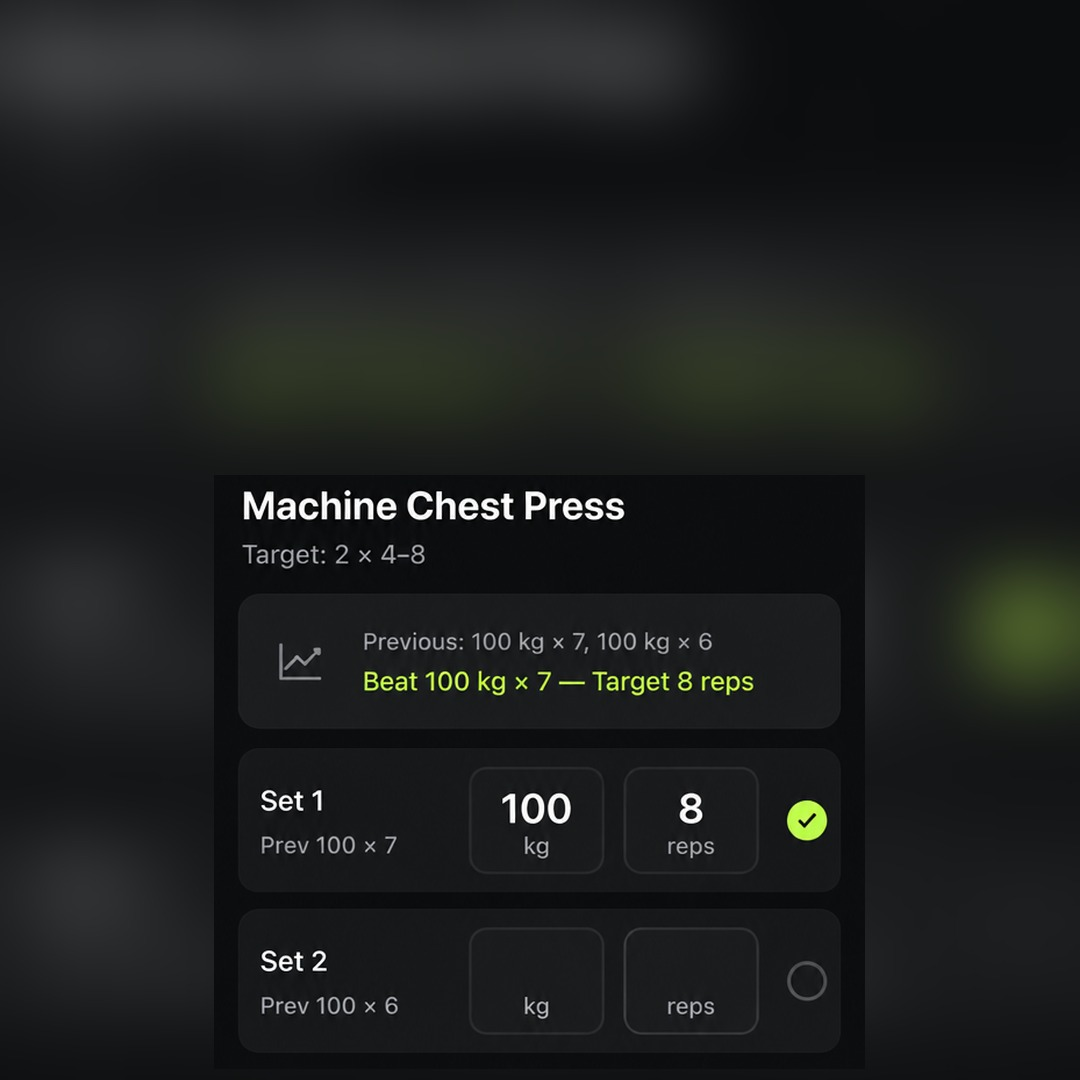
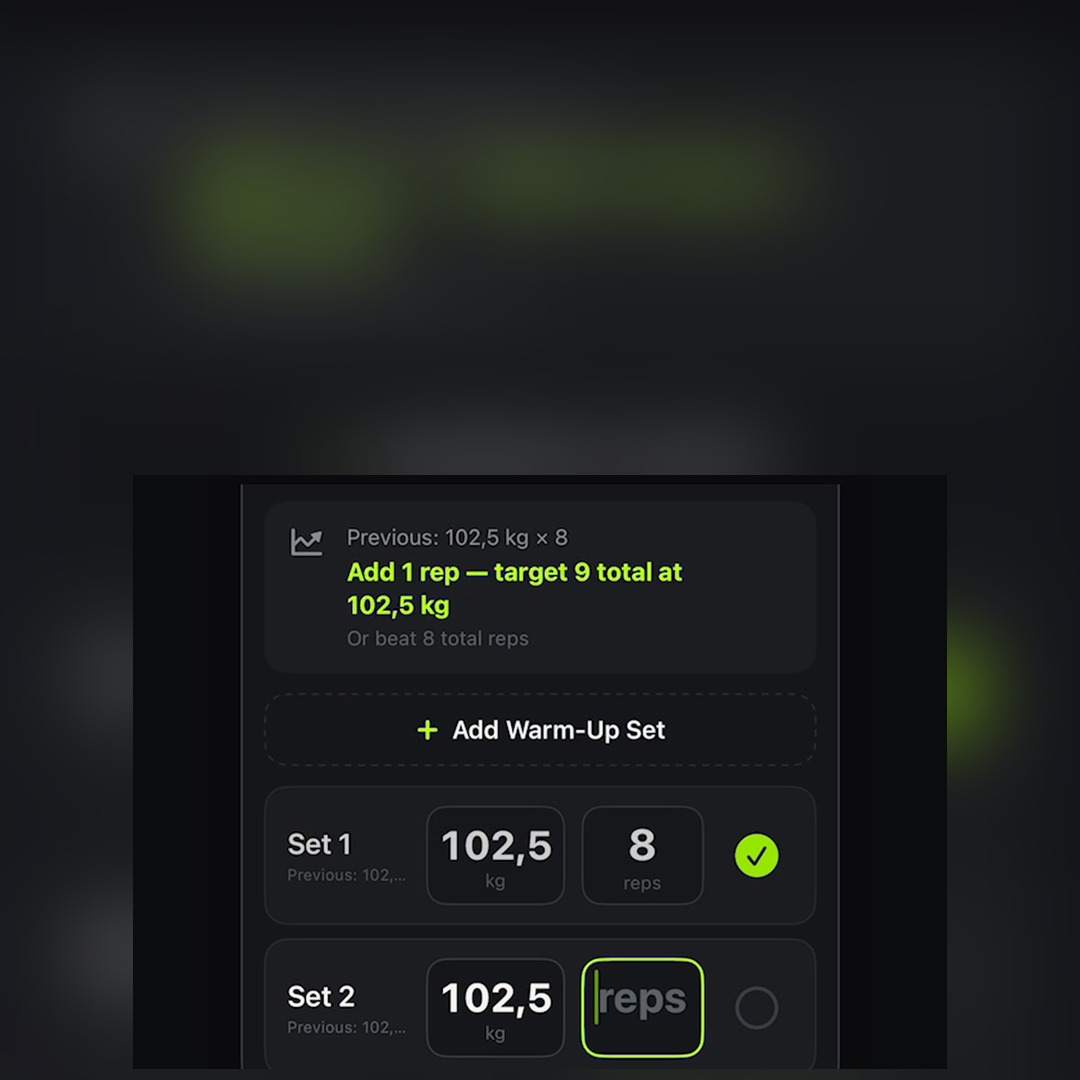
Add four new app screenshots and use them in the 28 Oct sets
Claude-Session: https://claude.ai/code/session_01L7zBRZeVuQtQ5RJ5YW83Jg

diff --git a/01-app/app-brief.md b/01-app/app-brief.md
@@ -33,6 +33,13 @@ Scheduling and progress charts support this. They aren't the main selling moment
 
 Other screens supplied: `progress-chest-press.png` (best set, est. 1RM, best-set chart, recent sessions), `train-week-overview.png` (today's workout, week strip with rest days, "3 of 4 sessions this week"), `workout-complete-progressed.png` (session summary, per-exercise progression, new PR). None shows moving a session to another day.
 
+**New screenshots (2026-10-28, from the founder; newer UI, prefer these):**
+- `train-week-v2.png`: Upper B, "Workout in progress · 1 of 12 sets logged", Resume Workout, week strip (Upper A / Lower A / Upper B / rest / Lower B), "0 of 4 lifting sessions". Use for plan and schedule slides.
+- `exercise-target-rest-v2.png`: "Previous: 102,5 kg × 8 · Add 1 rep — target 9 total at 102,5 kg", Set 1 logged, Set 2 weight shown with reps empty, rest timer 2:09. Use for target slides.
+- `recovery-day-calendar-v2.png`: Recovery day (start cardio / take rest day) with a date picker open. **Unconfirmed:** whether this moves a session to another day. Don't use it for scheduling claims until the founder confirms.
+- `exercise-shoulder-press-v2.png`: Machine Shoulder Press. **Data mismatch:** Set 1 shows 102,5 kg but previous is 57,5 kg. Crop to the previous/target card only, or don't use.
+- Set 2's weight is filled in on both exercise screens. Still don't claim "pre-filled weights" until the founder confirms that's app behaviour rather than demo data.
+
 ## Pains
 In the user's own words. These are hook hypotheses until the numbers back them.
 

diff --git a/04-sets/2026-10-28-earndapp-one-programme-you-follow/slides.md b/04-sets/2026-10-28-earndapp-one-programme-you-follow/slides.md
@@ -11,8 +11,8 @@
 3. (middle, 15 words) what helps: four sessions a week, the same exercises, and a target for each one.  
    _BRAND BACKGROUND: solid black, no photo_
 4. (middle, 10 words) EARND's four-day Upper/Lower programme. open it, see today's session, start.  
-   _REAL SCREENSHOT: train-week-overview.png: train-week-overview.png_
+   _REAL SCREENSHOT: train-week-v2.png: train-week-v2.png_
 5. (middle, 8 words) every exercise shows last session and today's target.  
-   _REAL SCREENSHOT: exercise-target.png: exercise-target.png_
+   _REAL SCREENSHOT: exercise-target-rest-v2.png: exercise-target-rest-v2.png_
 6. (cta, 11 words) one plan to follow. / EARND launches soon. Follow for the launch.  
    _BRAND BACKGROUND: solid black, no photo_

diff --git a/04-sets/2026-10-28-ezyxbt-top5-triceps/slides.md b/04-sets/2026-10-28-ezyxbt-top5-triceps/slides.md
@@ -17,7 +17,7 @@
 6. (middle, 13 words) #2 close-grip bench press / small plate jumps. use safeties when you train alone.  
    _REAL FOUNDER PHOTO: crop and resize only, face and physique unchanged: b5-01.jpg_
 7. (middle, 16 words) bonus tip: know your last set before you start this one. / i'm building EARND for that.  
-   _REAL SCREENSHOT: exercise-target.png: exercise-target.png_
+   _REAL SCREENSHOT: exercise-target-rest-v2.png: exercise-target-rest-v2.png_
 8. (middle, 15 words) #1 cable pushdown / same attachment, same pin, small jumps. the easiest to repeat and beat.  
    _REAL FOUNDER PHOTO: crop and resize only, face and physique unchanged: b6-03.jpg_
 9. (cta, 8 words) i'm building EARND. / follow @earndapp for the launch.  

diff --git a/04-sets/2026-10-28-ezyxbt-top5-biceps/slides.md b/04-sets/2026-10-28-ezyxbt-top5-biceps/slides.md
@@ -17,7 +17,7 @@
 6. (middle, 15 words) #2 cable curl / small pin jumps and steady tension. stacks vary, so stay on one.  
    _REAL FOUNDER PHOTO: crop and resize only, face and physique unchanged: b6-11.jpg_
 7. (middle, 15 words) bonus tip: track every set, not just the heaviest one. / i'm building EARND for that.  
-   _REAL SCREENSHOT: exercise-target.png: exercise-target.png_
+   _REAL SCREENSHOT: exercise-target-rest-v2.png: exercise-target-rest-v2.png_
 8. (middle, 16 words) #1 machine preacher curl / fixed path, no swing, small jumps. the easiest to repeat and beat.  
    _REAL FOUNDER PHOTO: crop and resize only, face and physique unchanged: b4-10.jpg_
 9. (cta, 8 words) i'm building EARND. / follow @earndapp for the launch.  

diff --git a/04-sets/2026-10-28-ezyxbt-top5-hamstrings/slides.md b/04-sets/2026-10-28-ezyxbt-top5-hamstrings/slides.md
@@ -17,7 +17,7 @@
 6. (middle, 13 words) #2 romanian deadlift / small plate jumps. keep the same depth so it compares.  
    _REAL FOUNDER PHOTO: crop and resize only, face and physique unchanged: b4-04.jpg_
 7. (middle, 15 words) bonus tip: one more rep than last time still counts. / i'm building EARND for that.  
-   _REAL SCREENSHOT: exercise-target.png: exercise-target.png_
+   _REAL SCREENSHOT: exercise-target-rest-v2.png: exercise-target-rest-v2.png_
 8. (middle, 16 words) #1 seated leg curl / fixed path, pin stack, small jumps. the easiest to repeat and beat.  
    _REAL FOUNDER PHOTO: crop and resize only, face and physique unchanged: b6-11.jpg_
 9. (cta, 8 words) i'm building EARND. / follow @earndapp for the launch.  

diff --git a/04-sets/2026-10-28-earndapp-what-a-plan-should-tell-you/slides.md b/04-sets/2026-10-28-earndapp-what-a-plan-should-tell-you/slides.md
@@ -15,6 +15,6 @@
 5. (middle, 10 words) 4. what you lifted last time, and what to beat  
    _BRAND BACKGROUND: solid black, no photo_
 6. (middle, 12 words) EARND gives you a four-day Upper/Lower plan. today's workout, ready to start.  
-   _REAL SCREENSHOT: train-week-overview.png: train-week-overview.png_
+   _REAL SCREENSHOT: train-week-v2.png: train-week-v2.png_
 7. (cta, 12 words) walk in with a plan. / EARND launches soon. Follow for the launch.  
    _BRAND BACKGROUND: solid black, no photo_
